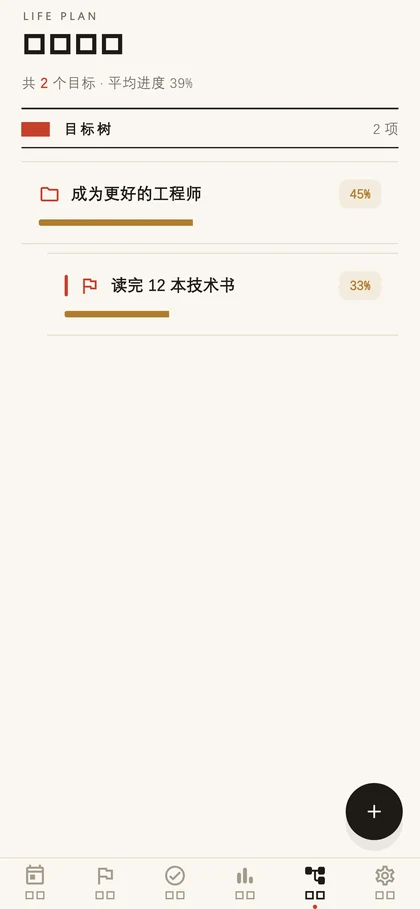
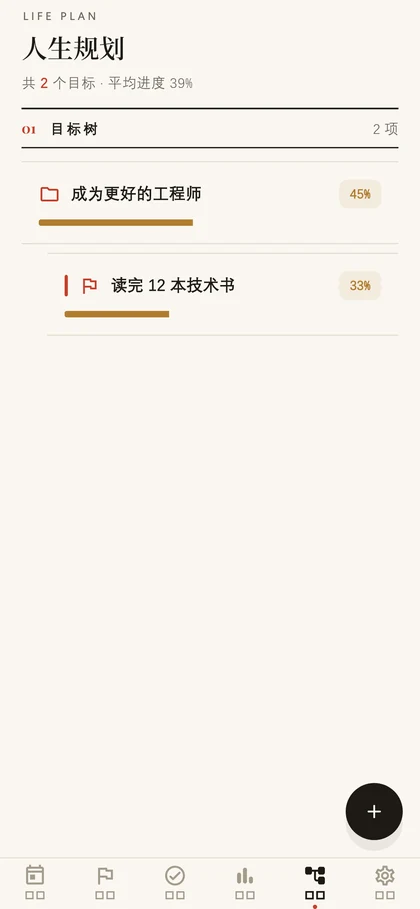
fix(golden): 截图管线手动加载 pubspec 衬线字体
flutter test 不会自动装载 pubspec 声明的字体——v1.5.0 起 README 截图里的
衬线（宋体标题/Playfair 数字）一直是占位方块，此前的目检漏掉了它。
在 screenshots 与 paper_gallery 的字体装载处按家族手动 FontLoader，
README 五图与 golden 基线重出（真实设备不受影响，APK 无需重出）

Changed region(s): [[0.031, 0.0308, 0.3095, 0.0616], [0.031, 0.1232, 0.2786, 0.154]]

diff --git a/test/golden/paper_gallery.golden.dart b/test/golden/paper_gallery.golden.dart
@@ -33,11 +33,30 @@ class _CjkFont {
   static Future<void> ensureLoaded() async {
     if (_loaded) return;
     final File file = File(r'C:\Windows\Fonts\Deng.ttf');
-    if (!file.existsSync()) return;
-    final Uint8List bytes = await file.readAsBytes();
-    final FontLoader loader = FontLoader(family)
-      ..addFont(Future<ByteData>.value(ByteData.sublistView(bytes)));
-    await loader.load();
+    if (file.existsSync()) {
+      final Uint8List bytes = await file.readAsBytes();
+      final FontLoader loader = FontLoader(family)
+        ..addFont(Future<ByteData>.value(ByteData.sublistView(bytes)));
+      await loader.load();
+    }
+    // pubspec 声明的衬线字体在 test 环境不会自动加载，手动按家族装载
+    for (final MapEntry<String, List<String>> family
+        in const <String, List<String>>{
+          'Playfair': <String>[
+            'assets/fonts/PlayfairDisplay-Medium.ttf',
+            'assets/fonts/PlayfairDisplay-Bold.ttf',
+          ],
+          'NotoSerifSC': <String>[
+            'assets/fonts/NotoSerifSC-Regular.ttf',
+            'assets/fonts/NotoSerifSC-SemiBold.ttf',
+          ],
+        }.entries) {
+      final FontLoader loader = FontLoader(family.key);
+      for (final String path in family.value) {
+        loader.addFont(Future<ByteData>.value(await rootBundle.load(path)));
+      }
+      await loader.load();
+    }
     _loaded = true;
   }
 }

diff --git a/test/golden/screenshots.golden.dart b/test/golden/screenshots.golden.dart
@@ -60,8 +60,27 @@ Future<void> _loadFont(String family, File file) async {
 ///   家族名不受影响。
 /// - 图标字体从 Flutter SDK 缓存里取，路径由 FLUTTER_ROOT 推出来
 ///   （`flutter test` 会设置这个环境变量）。
+/// pubspec 声明的字体在 flutter test 里**不会**自动加载（v1.5.0 起
+/// README 截图里的衬线一直是占位块，就是这里漏了）——手动按家族装载。
+Future<void> _loadPackagedFont(String family, List<String> assets) async {
+  final FontLoader loader = FontLoader(family);
+  for (final String path in assets) {
+    final ByteData bytes = await rootBundle.load(path);
+    loader.addFont(Future<ByteData>.value(bytes));
+  }
+  await loader.load();
+}
+
 Future<void> _loadFonts() async {
   await _loadFont('Roboto', File(r'C:\Windows\Fonts\Deng.ttf'));
+  await _loadPackagedFont('Playfair', <String>[
+    'assets/fonts/PlayfairDisplay-Medium.ttf',
+    'assets/fonts/PlayfairDisplay-Bold.ttf',
+  ]);
+  await _loadPackagedFont('NotoSerifSC', <String>[
+    'assets/fonts/NotoSerifSC-Regular.ttf',
+    'assets/fonts/NotoSerifSC-SemiBold.ttf',
+  ]);
 
   final String? flutterRoot = Platform.environment['FLUTTER_ROOT'];
   if (flutterRoot == null) {
